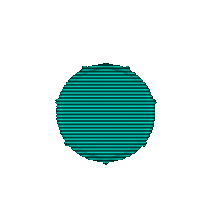
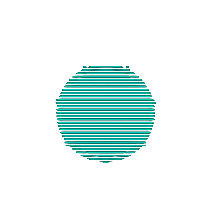
new instument alpha images

Changed region(s): [[0.2547, 0.283, 0.7358, 0.7925]]

diff --git a/unboxing-web/src/helpers/index.js b/unboxing-web/src/helpers/index.js
@@ -103,7 +103,7 @@ export function loadInstruments() { return {
     name_de: "Flöte", 
     name_en: "Flute",
     sequenceGroup: "flute1",
-    image: '/images/instruments_opaque/Flute.png',   
+    image: '/images/instruments/Flute.png',   
     order: 1,
     priority: 1,
     xPos: -20,
@@ -115,7 +115,7 @@ export function loadInstruments() { return {
     combinedName_de: "Oboen",
     combinedName_en: "Oboes",
     sequenceGroup: "oboe1",
-    image: '/images/instruments_opaque/Oboe.png',    
+    image: '/images/instruments/Oboe.png',    
     order: 2,
     priority: 1,
     xPos: 0,
@@ -125,7 +125,7 @@ export function loadInstruments() { return {
     name_de: "Oboe 2", 
     name_en: "Oboe 2",
     sequenceGroup: "oboe2",
-    image: '/images/instruments_opaque/Oboe.png',
+    image: '/images/instruments/Oboe.png',
     order: 3,
     priority: 2,
     xPos: 20,
@@ -137,7 +137,7 @@ export function loadInstruments() { return {
     combinedName_de: "Fagotte",
     combinedName_en: "Bassoons",
     sequenceGroup: "fagott1",
-    image: '/images/instruments_opaque/Fagott.png',  
+    image: '/images/instruments/Fagott.png',  
     order: 4,
     priority: 1,
     xPos: -10,
@@ -147,7 +147,7 @@ export function loadInstruments() { return {
     name_de: "Fagott 2", 
     name_en: "Bassoon 2",
     sequenceGroup: "fagott2",
-    image: '/images/instruments_opaque/Fagott.png',  
+    image: '/images/instruments/Fagott.png',  
     order: 5,
     priority: 2,
     xPos: 10,
@@ -159,7 +159,7 @@ export function loadInstruments() { return {
     combinedName_de: "Hörner",
     combinedName_en: "Horns",
     sequenceGroup: "horn1",
-    image: '/images/instruments_opaque/Horn.png',    
+    image: '/images/instruments/Horn.png',    
     order: 6,
     priority: 1,
     xPos: -40,
@@ -169,7 +169,7 @@ export function loadInstruments() { return {
     name_de: "Horn 2",
     name_en: "Horn 2",
     sequenceGroup: "horn2",
-    image: '/images/instruments_opaque/Horn.png',
+    image: '/images/instruments/Horn.png',
     order: 7,
     priority: 2,
     xPos: -25,
@@ -181,7 +181,7 @@ export function loadInstruments() { return {
     combinedName_de: "Trompeten",
     combinedName_en: "Trumpets",
     sequenceGroup: "trompete1",
-    image: '/images/instruments_opaque/Trompete.png',
+    image: '/images/instruments/Trompete.png',
     order: 8,
     priority: 1,
     xPos: 25,
@@ -191,7 +191,7 @@ export function loadInstruments() { return {
     name_de: "Trompete 2",
     name_en: "Trumpet 2",
     sequenceGroup: "trompete2",
-    image: '/images/instruments_opaque/Trompete.png',
+    image: '/images/instruments/Trompete.png',
     order: 9,
     priority: 2,
     xPos: 40,
@@ -201,7 +201,7 @@ export function loadInstruments() { return {
     name_de: "Pauke",
     name_en: "Timpani",
     sequenceGroup: "pauke1",
-    image: '/images/instruments_opaque/Pauke.png',
+    image: '/images/instruments/Pauke.png',
     order: 10,
     priority: 1,
     xPos: 60,
@@ -211,7 +211,7 @@ export function loadInstruments() { return {
     name_de: "Klavier", 
     name_en: "Piano",
     sequenceGroup: "piano1",
-    image: '/images/instruments_opaque/Piano.png',  
+    image: '/images/instruments/Piano.png',  
     order: 11,
     priority: 1,
     xPos: 0,
@@ -221,7 +221,7 @@ export function loadInstruments() { return {
     name_de: "Klavier", 
     name_en: "Piano",
     sequenceGroup: "piano1",
-    image: '/images/instruments_opaque/Piano.png',  
+    image: '/images/instruments/Piano.png',  
     order: 11,
     priority: 1,
     xPos: 0,
@@ -231,7 +231,7 @@ export function loadInstruments() { return {
     name_de: "Violine 1",
     name_en: "Violin 1",
     sequenceGroup: "violin2",
-    image: '/images/instruments_opaque/Violine.png', 
+    image: '/images/instruments/Violine.png', 
     order: 16,
     priority: 2,
   },
@@ -241,7 +241,7 @@ export function loadInstruments() { return {
     combinedName_de: "Violinen",
     combinedName_en: "Violins",
     sequenceGroup: "violin1",
-    image: '/images/instruments_opaque/Violine.png', 
+    image: '/images/instruments/Violine.png', 
     order: 12,
     priority: 1,
     direction: "right",
@@ -252,7 +252,7 @@ export function loadInstruments() { return {
     name_de: "Violine 1",
     name_en: "Violin 1",
     sequenceGroup: "violin1",
-    image: '/images/instruments_opaque/Violine.png', 
+    image: '/images/instruments/Violine.png', 
     order: 13,
     priority: 1,
     direction: "right",
@@ -263,7 +263,7 @@ export function loadInstruments() { return {
     name_de: "Violine 1",
     name_en: "Violin 1",
     sequenceGroup: "violin1",
-    image: '/images/instruments_opaque/Violine.png', 
+    image: '/images/instruments/Violine.png', 
     order: 14,
     priority: 1,
     direction: "right",
@@ -274,7 +274,7 @@ export function loadInstruments() { return {
     name_de: "Violine 1",
     name_en: "Violin 1",
     sequenceGroup: "violin1",
-    image: '/images/instruments_opaque/Violine.png', 
+    image: '/images/instruments/Violine.png', 
     order: 15,
     priority: 1,
     direction: "right",
@@ -285,7 +285,7 @@ export function loadInstruments() { return {
     name_de: "Violine 2",
     name_en: "Violin 2",
     sequenceGroup: "violin2",
-    image: '/images/instruments_opaque/Violine.png', 
+    image: '/images/instruments/Violine.png', 
     order: 16,
     priority: 2
   },
@@ -293,7 +293,7 @@ export function loadInstruments() { return {
     name_de: "Violine 2",
     name_en: "Violin 2",
     sequenceGroup: "violin2",
-    image: '/images/instruments_opaque/Violine.png', 
+    image: '/images/instruments/Violine.png', 
     order: 16,
     priority: 2,
     direction: "left",
@@ -304,7 +304,7 @@ export function loadInstruments() { return {
     name_de: "Violine 2",
     name_en: "Violin 2",
     sequenceGroup: "violin2",
-    image: '/images/instruments_opaque/Violine.png', 
+    image: '/images/instruments/Violine.png', 
     order: 17,
     priority: 2,
     direction: "left",
@@ -315,7 +315,7 @@ export function loadInstruments() { return {
     name_de: "Violine 2",
     name_en: "Violin 2",
     sequenceGroup: "violin2",
-    image: '/images/instruments_opaque/Violine.png', 
+    image: '/images/instruments/Violine.png', 
     order: 18,
     priority: 2,
     direction: "left",
@@ -326,7 +326,7 @@ export function loadInstruments() { return {
     name_de: "Violine 2",
     name_en: "Violin 2",
     sequenceGroup: "violin2",
-    image: '/images/instruments_opaque/Violine.png', 
+    image: '/images/instruments/Violine.png', 
     order: 19,
     priority: 1,
     direction: "left",
@@ -337,7 +337,7 @@ export function loadInstruments() { return {
     name_de: "Viola",
     name_en: "Viola",
     sequenceGroup: "viola1",
-    image: '/images/instruments_opaque/Viola.png',   
+    image: '/images/instruments/Viola.png',   
     order: 20,
     priority: 1 
   },
@@ -345,7 +345,7 @@ export function loadInstruments() { return {
     name_de: "Viola",
     name_en: "Viola",
     sequenceGroup: "viola1",
-    image: '/images/instruments_opaque/Viola.png',   
+    image: '/images/instruments/Viola.png',   
     order: 20,
     priority: 1,
     direction: "left",
@@ -356,7 +356,7 @@ export function loadInstruments() { return {
     name_de: "Viola",
     name_en: "Viola",
     sequenceGroup: "viola1",
-    image: '/images/instruments_opaque/Viola.png',   
+    image: '/images/instruments/Viola.png',   
     order: 21,
     priority: 1,
     direction: "left",
@@ -367,7 +367,7 @@ export function loadInstruments() { return {
     name_de: "Viola",
     name_en: "Viola",
     sequenceGroup: "viola1",
-    image: '/images/instruments_opaque/Viola.png',   
+    image: '/images/instruments/Viola.png',   
     order: 22,
     priority: 1,
     direction: "left",
@@ -378,7 +378,7 @@ export function loadInstruments() { return {
     name_de: "Cello",
     name_en: "Cello",
     sequenceGroup: "cello",
-    image: '/images/instruments_opaque/Cello.png',   
+    image: '/images/instruments/Cello.png',   
     order: 23,
     priority: 1 
   },
@@ -386,7 +386,7 @@ export function loadInstruments() { return {
     name_de: "Cello",
     name_en: "Cello",
     sequenceGroup: "cello",
-    image: '/images/instruments_opaque/Cello.png',   
+    image: '/images/instruments/Cello.png',   
     order: 23,
     priority: 1,
     direction: "right",
@@ -397,7 +397,7 @@ export function loadInstruments() { return {
     name_de: "Cello",
     name_en: "Cello",
     sequenceGroup: "cello",
-    image: '/images/instruments_opaque/Cello.png',   
+    image: '/images/instruments/Cello.png',   
     order: 24,
     priority: 1,
     direction: "right",
@@ -408,7 +408,7 @@ export function loadInstruments() { return {
     name_de: "Cello",
     name_en: "Cello",
     sequenceGroup: "cello",
-    image: '/images/instruments_opaque/Cello.png',
+    image: '/images/instruments/Cello.png',
     order: 25,
     priority: 1,
     direction: "right",
@@ -419,7 +419,7 @@ export function loadInstruments() { return {
     name_de: "Kontrabass",
     name_en: "Double Bass",
     sequenceGroup: "bass",
-    image: '/images/instruments_opaque/Kontrabass.png',   
+    image: '/images/instruments/Kontrabass.png',   
     order: 26,
     priority: 1 
   },
@@ -427,7 +427,7 @@ export function loadInstruments() { return {
     name_de: "Kontrabass",
     name_en: "Double Bass",
     sequenceGroup: "bass",
-    image: '/images/instruments_opaque/Kontrabass.png',   
+    image: '/images/instruments/Kontrabass.png',   
     order: 26,
     priority: 1,
     direction: "right",
@@ -438,7 +438,7 @@ export function loadInstruments() { return {
     name_de: "Kontrabass",
     name_en: "Double Bass",
     sequenceGroup: "bass",
-    image: '/images/instruments_opaque/Kontrabass.png',   
+    image: '/images/instruments/Kontrabass.png',   
     order: 27,
     priority: 1,
     direction: "right",

diff --git a/unboxing-web/src/components/Figure.js b/unboxing-web/src/components/Figure.js
@@ -104,7 +104,7 @@ const Container = styled.span`
   transition: opacity 0.3s, transform 0.5s;
   width: calc(50px + 10vw);
   max-width: 14vw;
-  mix-blend-mode: lighten;
+  /*mix-blend-mode: lighten;*/
   @media (${breakpoints.large}) {
     width: calc(30px + 7vw);
     max-width: 12vw;
@@ -142,7 +142,7 @@ const InstrumentImg = styled.img`
   height: auto;
   position: absolute;
   bottom: ${ props => props.active ? "20%" : "0%" };
-  mix-blend-mode: lighten;
+  /*mix-blend-mode: lighten;*/
   ${ props => props.active ? 
     ((props.direction === "left" ? "right" : "left") + ": " + (props.direction === "center" ? "0" : "30" ) + "%")
     :

diff --git a/unboxing-web/src/components/ChallengeInfosAndVideos.js b/unboxing-web/src/components/ChallengeInfosAndVideos.js
@@ -66,6 +66,7 @@ const ChallengeInfosAndVideos = withLanguage(class extends React.Component {
 export { ChallengeInfosAndVideos }
 
 const Container = styled.div`
+display: none;
   width: 100%;
   bottom: 0;
   position: fixed;
